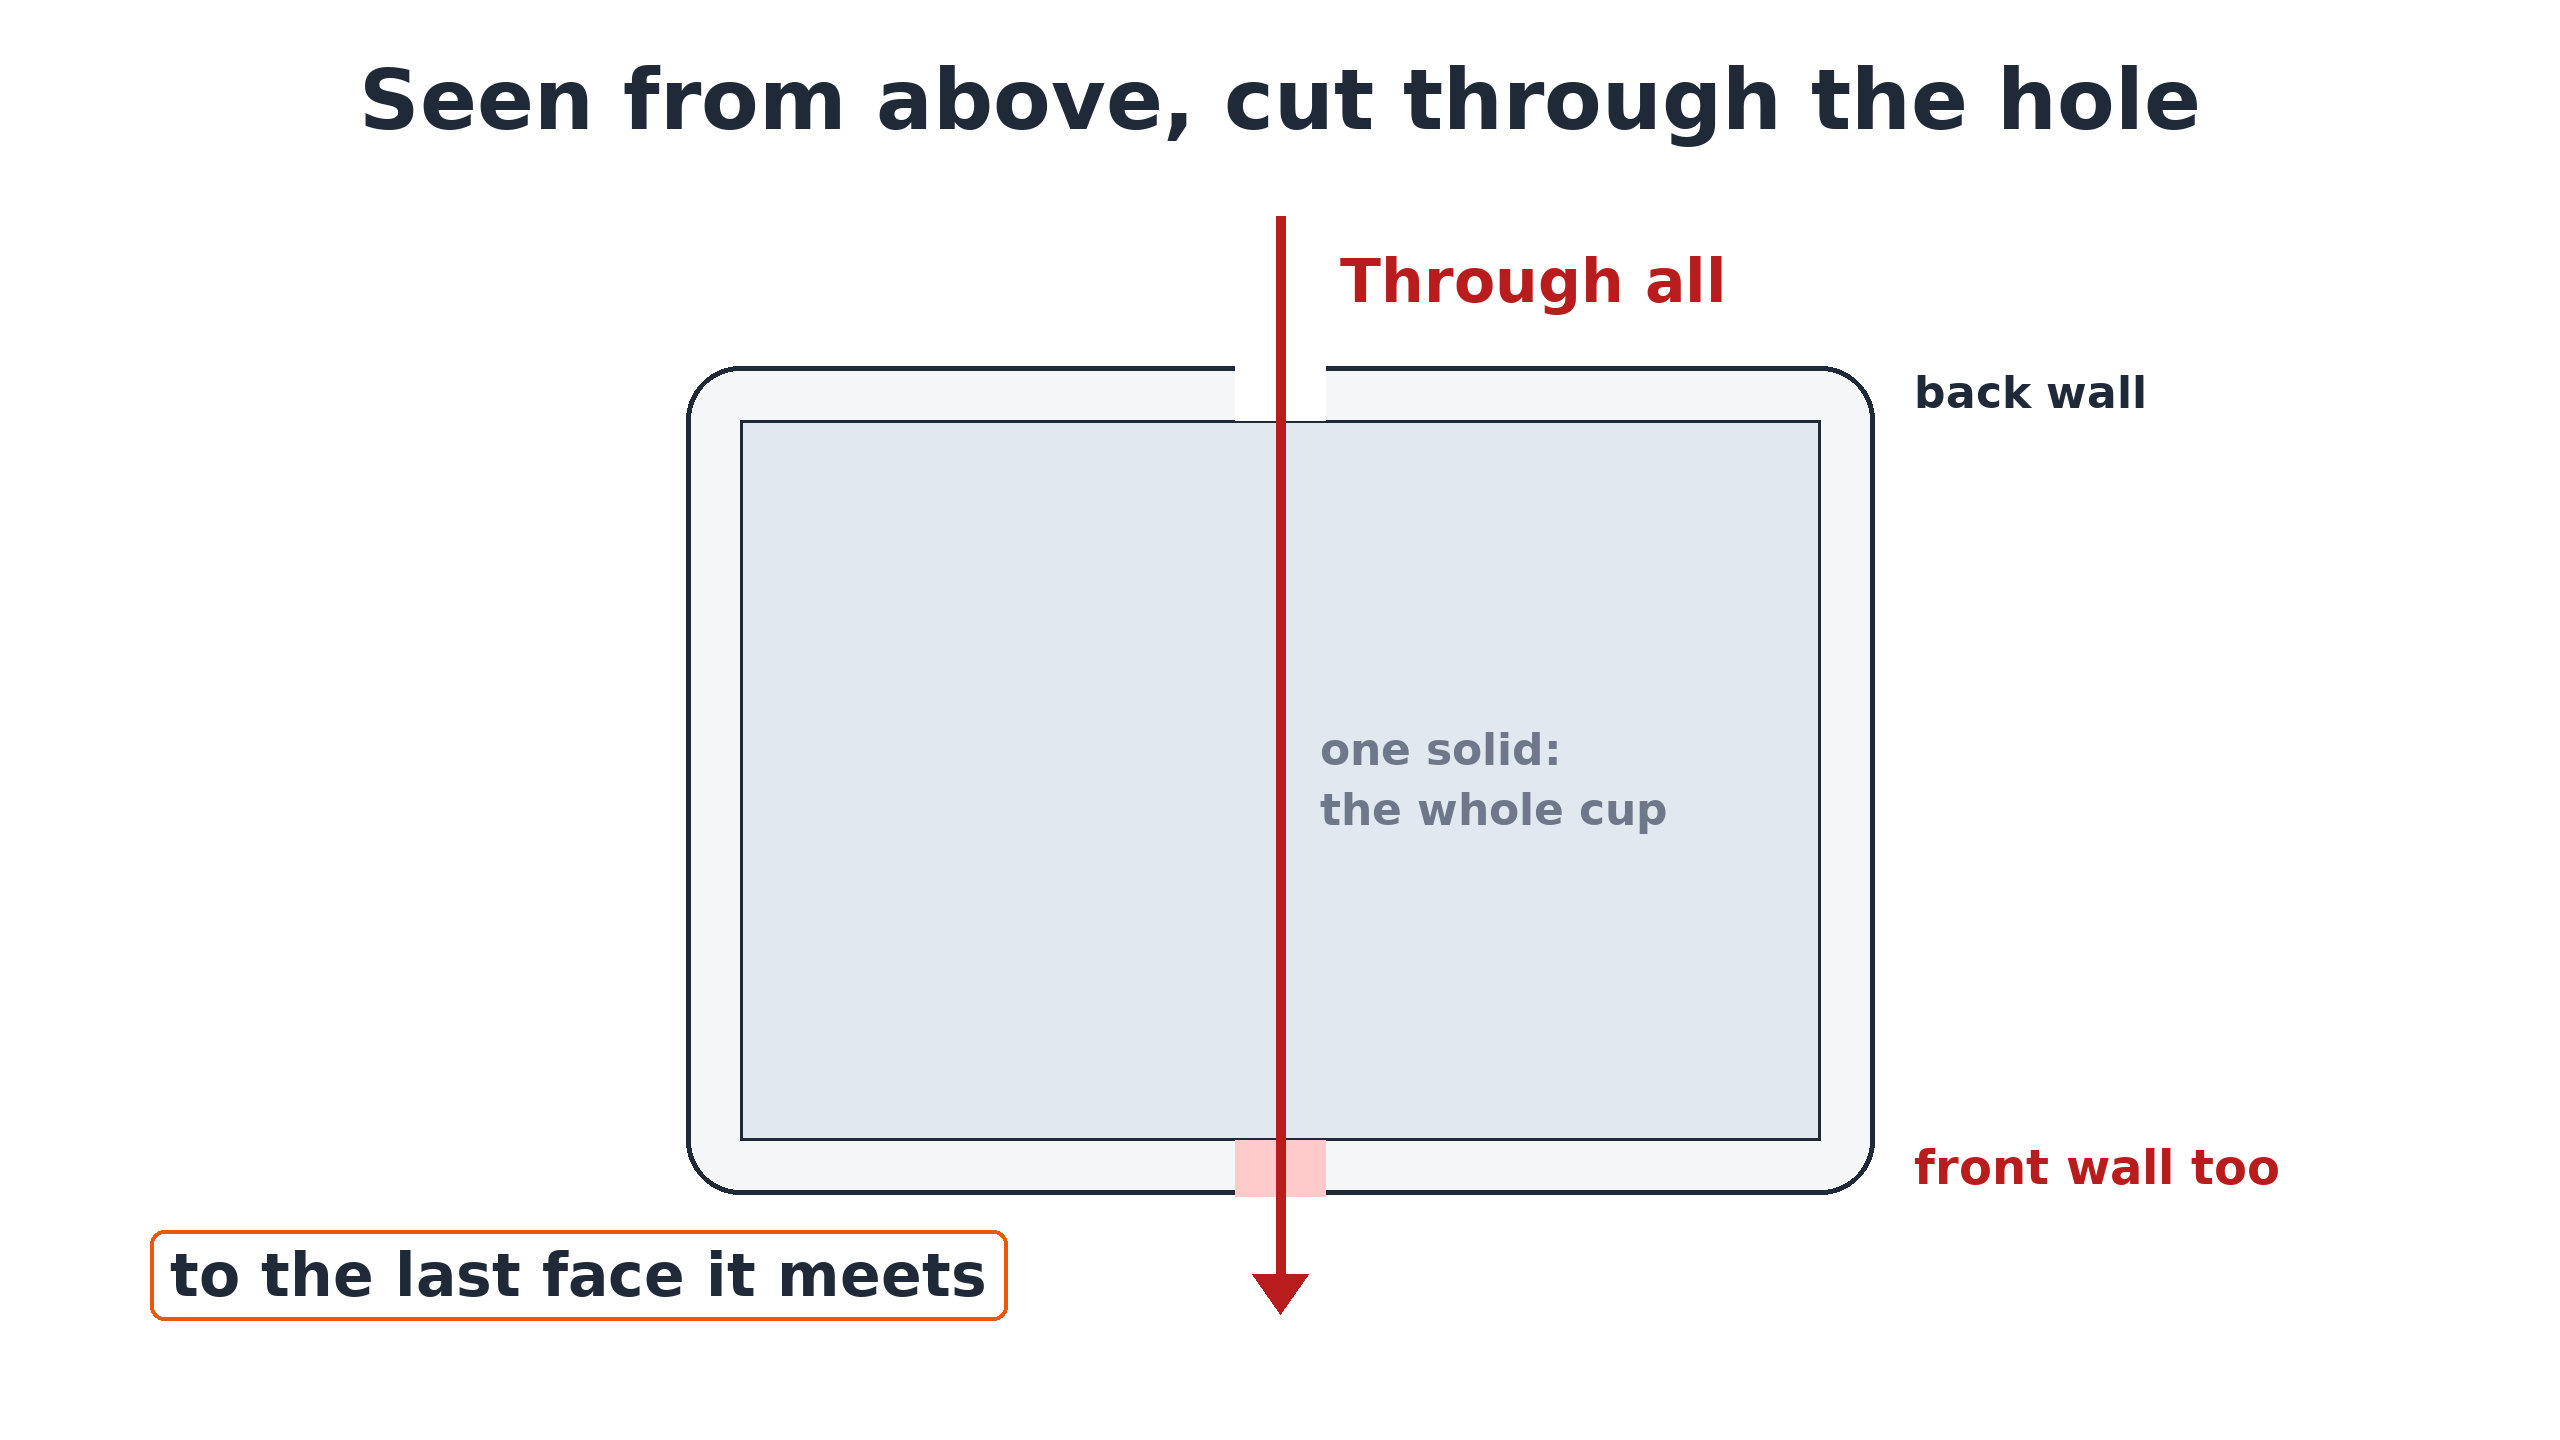
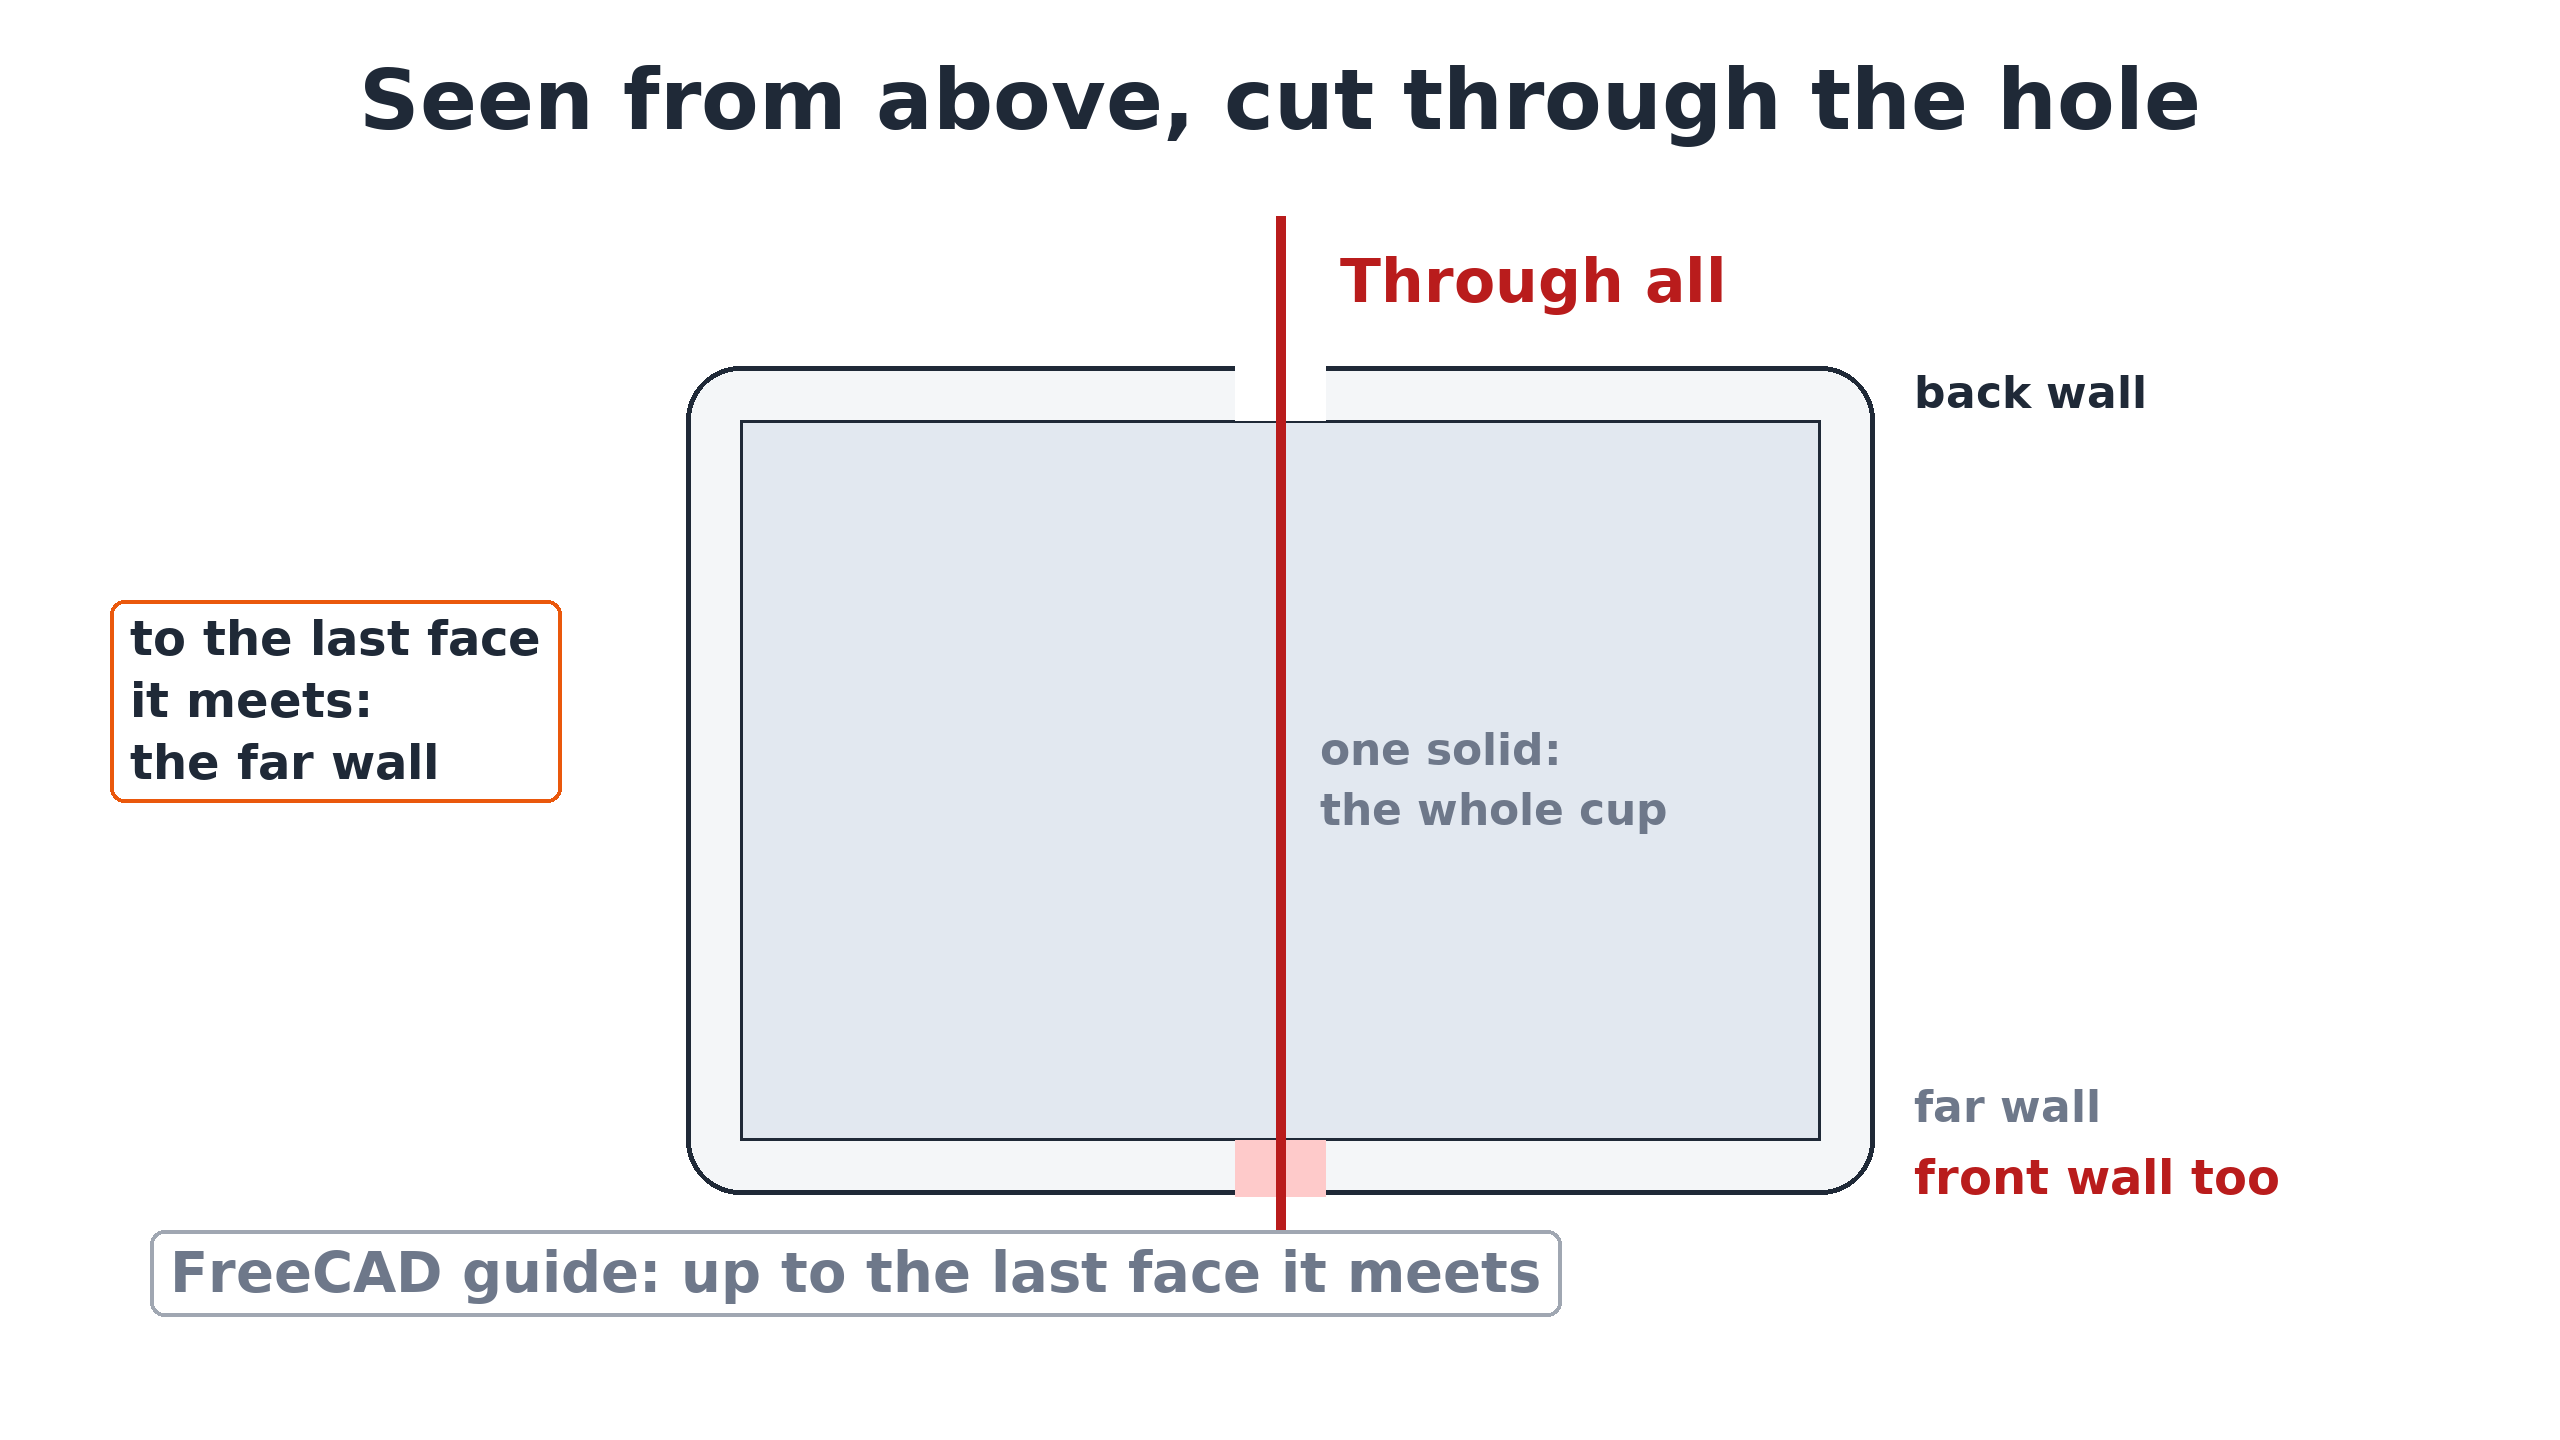
fc16 cut 2 cards: why-0 (section before the sum), Through all in 3 builds with FreeCAD's guide words, Short card names both walls; B1 spinner mask from 1100 after Enter
Claude-Session: https://claude.ai/code/session_01BKaTyjjjzT84TFwxoSwewu

Changed region(s): [[0.0625, 0.8438, 0.625, 0.9375], [0.0312, 0.4062, 0.2188, 0.5625], [0.75, 0.75, 0.9062, 0.8438]]

diff --git a/video/draw_fc16.py b/video/draw_fc16.py
@@ -103,7 +103,7 @@ MASK = {  # Claude Code footer / spinner / token mask: (t0, t1, y0) = white from
     'A1': [(0.0, 4.0, 898), (4.0, 6.0, 947), (6.0, 8.0, 996), (8.0, 10.34, 1045), (10.34, 12.0, 996),
            (12.0, 35.93, 1192), (35.93, 44.0, 1437)],
     'B1': [(0.0, 4.0, 898), (4.0, 6.0, 947), (6.0, 8.0, 996), (8.0, 10.0, 1045), (10.0, 11.5, 1094),
-           (11.5, 14.28, 1143), (14.28, 16.5, 1192), (16.5, 17.0, 1241), (17.0, 48.5, 1437), (48.5, 61.4, 1290),
+           (11.5, 14.28, 1143), (14.28, 16.0, 1100), (16.0, 16.5, 1192), (16.5, 17.0, 1241), (17.0, 48.5, 1437), (48.5, 61.4, 1290),
            (61.4, 69.9, 1437)],
 }
 HEAD_MASK = {  # header + "Auto mode is now Claude Code's default" banner: (t0, t1, y1) = white from 0 to y1, x 0-1160
@@ -208,9 +208,9 @@ def card_why(step):
     im, d = canvas()
     header(d, 'Seen from above, cut through the hole')
     if step == 5:
-        return card_why_all(im, d)
+        return card_why_all(im, d, 3)
     k, x0, x1, cx, y_in = 120, 500, 2060, 1280, 1000
-    wall = 2 if step == 1 else 3
+    wall = 2 if step <= 1 else 3
     y_out = y_in - wall * k
     hw = round(2.5 * k)
     d.rectangle((x0, y_in, x1, 1300), fill=INSIDE)
@@ -263,22 +263,33 @@ def cup_from_above(d, cx, y_back_in, k, wall, inside_l=40, half=30, width=5):
     return outer, (y_back_out, y_back_in, y_front_in, y_front_out)
 
 
-def card_why_all(im, d):
+def card_why_all(im, d, step=3):
+    """F8 in three builds (cut 2, WATCH-fc16-cut1 3 + 11): 1 the arrow through the back wall, FreeCAD's guide words on
+    screen; 2 on across the inside to the far wall (one solid); 3 the front wall drilled, "front wall too"."""
     global WHY5_OUTER
     k, cx = WHY5_K, 1280
     outer, (y_bo, y_bi, y_fi, y_fo) = cup_from_above(d, cx, 420, k, WHY5_WALL)
     WHY5_OUTER = outer
     hw = round(2.5 * k)
     d.rectangle((cx - hw, y_bo - 2, cx + hw, y_bi), fill=WHITE)
-    d.rectangle((cx - hw, y_fi, cx + hw, y_fo + 2), fill=FRONTHOLE)
-    arrow_down(d, cx, y_bo - 150, y_fo + 120, RED, w=10)
+    if step >= 3:
+        d.rectangle((cx - hw, y_fi, cx + hw, y_fo + 2), fill=FRONTHOLE)
+    tip = {1: y_bi + 160, 2: y_fi, 3: y_fo + 120}[step]
+    arrow_down(d, cx, y_bo - 150, tip, RED, w=10)
     text(d, (cx + 60, y_bo - 120), 'Through all', 60, RED)
     text(d, (outer[2] + 40, (y_bo + y_bi) // 2), 'back wall', 44, INK, anchor='lm')
-    text(d, (outer[2] + 40, (y_fi + y_fo) // 2), 'front wall too', 48, RED, anchor='lm')
-    text(d, (cx + 40, (y_bi + y_fi) // 2 - 30), 'one solid:', 44, GREY, anchor='lm')
-    text(d, (cx + 40, (y_bi + y_fi) // 2 + 30), 'the whole cup', 44, GREY, anchor='lm')
-    chip_on(d, (150, 1230), 'to the last face it meets', INK, px=60, edge=ORANGE)
-    save(im, 'card-why-5.png')
+    chip_on(d, (150, 1230), 'FreeCAD guide: up to the last face it meets', INK if step == 1 else GREY, px=56,
+            edge=ORANGE if step == 1 else DONE)
+    if step >= 2:
+        text(d, (outer[2] + 40, (y_fi + y_fo) // 2 - 60), 'far wall', 44, INK if step == 2 else GREY, anchor='lm')
+        text(d, (cx + 40, (y_bi + y_fi) // 2 - 30), 'one solid:', 44, GREY, anchor='lm')
+        text(d, (cx + 40, (y_bi + y_fi) // 2 + 30), 'the whole cup', 44, GREY, anchor='lm')
+    if step >= 3:
+        text(d, (outer[2] + 40, (y_fi + y_fo) // 2 + 10), 'front wall too', 48, RED, anchor='lm')
+        chip_on(d, (110, 600), 'to the last face\nit meets:\nthe far wall', INK, px=48, edge=ORANGE)
+    save(im, f'card-why-5-{step}.png')
+    if step == 3:
+        save(im, 'card-why-5.png')
 
 
 def card_why_short(step):
@@ -312,6 +323,7 @@ def card_why_short(step):
         arrow_down(d, cx, y_bo - 80, y_fo + 60, RED, w=9)
         text(d, (540, 100), 'Through all', 60, RED, anchor='mm', frame=fr)
         text(d, (cx + 60, y_fo + 14), 'front wall', 44, RED, frame=fr)
+        text(d, (outer[0], y_bo - 40), 'back wall', 44, INK, anchor='lm', frame=fr)
         chip_on(d, (80, 900), 'to the last face it meets', INK, px=52, frame=fr, edge=ORANGE)
     save(im, f'card-why-s{step}.png')
 
@@ -684,8 +696,12 @@ def main():
     CHIP_FILES.clear()
     for s in range(1, 5):
         card_skewer(s)
-    for s in range(1, 6):
+    for s in range(0, 6):
         card_why(s)
+    for s in (1, 2):
+        im, dd = canvas()
+        header(dd, 'Seen from above, cut through the hole')
+        card_why_all(im, dd, s)
     for s in range(1, 4):
         card_why_short(s)
     card_end()

diff --git a/tests/test_draw_fc16.py b/tests/test_draw_fc16.py
@@ -184,7 +184,7 @@ def test_steps_add(run):
         if i > 1:
             assert s not in texts(run, f'card-why-{i - 1}.png')
     assert 'Pocket Length 2' in texts(run, 'card-why-1.png')
-    assert 'to the last face it meets' in texts(run, 'card-why-5.png')
+    assert any('to the last face' in x for x in texts(run, 'card-why-5.png'))
     assert 'to the last face it meets' in texts(run, 'card-why-s3.png')
 
 
@@ -280,3 +280,35 @@ def test_short_head(run):
     t = texts(run, HEAD)
     assert t == ['POCKET 2 DEEP, WALL 3:', 'HOLE CLOSED']
     assert alpha_in(HEAD, (0, 0, 1080, 300))
+
+
+# --- cut 2 (WATCH-fc16-cut1, verified on the frames) -----------------------------------------------------------------
+def test_cut2_why_card_opens_without_the_sum(run):
+    """F7: card-why-0 is the wall-2 section and the Pocket arrow only; the "2 − 2 = 0" sum comes with card-why-1."""
+    t0 = texts(run, 'card-why-0.png')
+    assert 'Pocket Length 2' in t0 and 'wall 2' in t0 and '2 − 2 = 0' not in t0
+    assert set(t0) <= set(texts(run, 'card-why-1.png'))
+
+
+def test_cut2_through_all_card_builds(run):
+    """F8: card-why-5 in three steps: into the back wall (FreeCAD's guide words on screen), across the inside to the
+    far wall, then the front wall drilled."""
+    s = [set(texts(run, f'card-why-5-{i}.png')) for i in (1, 2, 3)]
+    assert s[0] <= s[1] <= s[2]
+    assert any('FreeCAD guide' in x for x in s[0]) and 'back wall' in s[0] and 'front wall too' not in s[0]
+    assert 'far wall' in s[1] and 'front wall too' not in s[1]
+    assert 'front wall too' in s[2] and 'to the last face' in s[2]
+    assert set(texts(run, 'card-why-5.png')) == s[2]
+
+
+def test_cut2_short_through_all_walls_named(run):
+    t = texts(run, 'card-why-s3.png')
+    assert 'back wall' in t and 'front wall' in t
+
+
+def test_cut2_b1_spinner_masked_after_enter(run):
+    """B1 Enter at 14.284: until the reply starts (16.0) the spinner row sits at y 1108 and the status row moves; the
+    mask starts at 1100 (cut 1 OCR: "auto mode" at 5:10.5)."""
+    band = [y for t0, t1, y in d.MASK['B1'] if t0 <= 14.3 < t1][0]
+    assert band <= 1100
+    assert [y for t0, t1, y in d.MASK['B1'] if t0 <= 16.2 < t1][0] <= 1192
